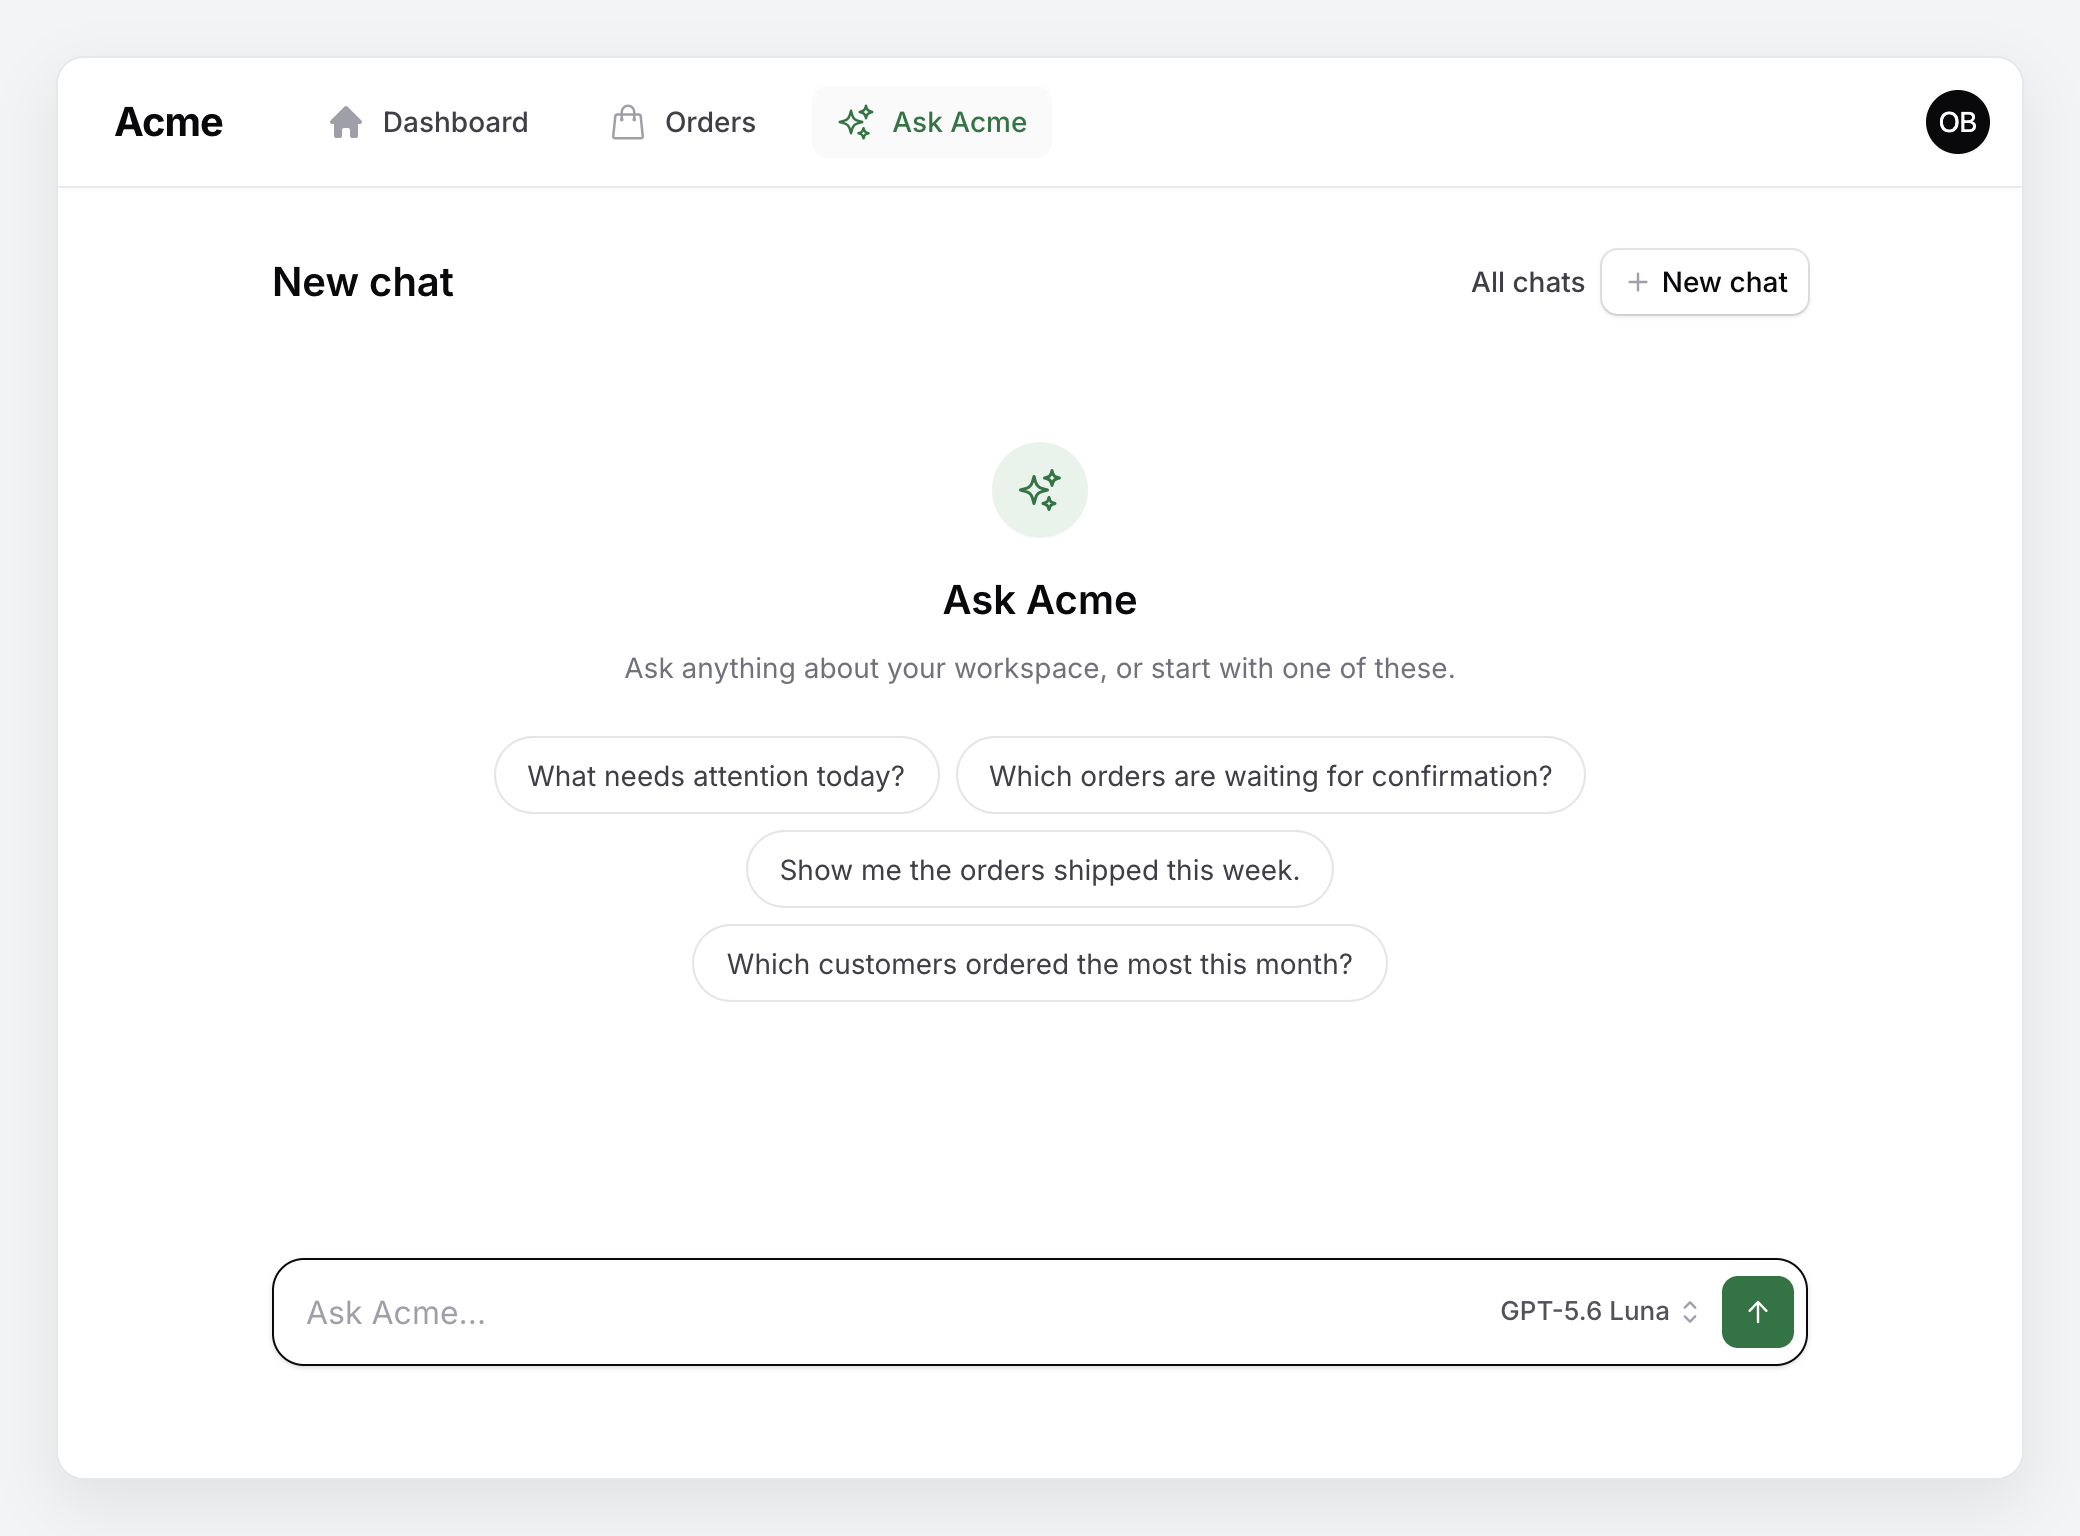
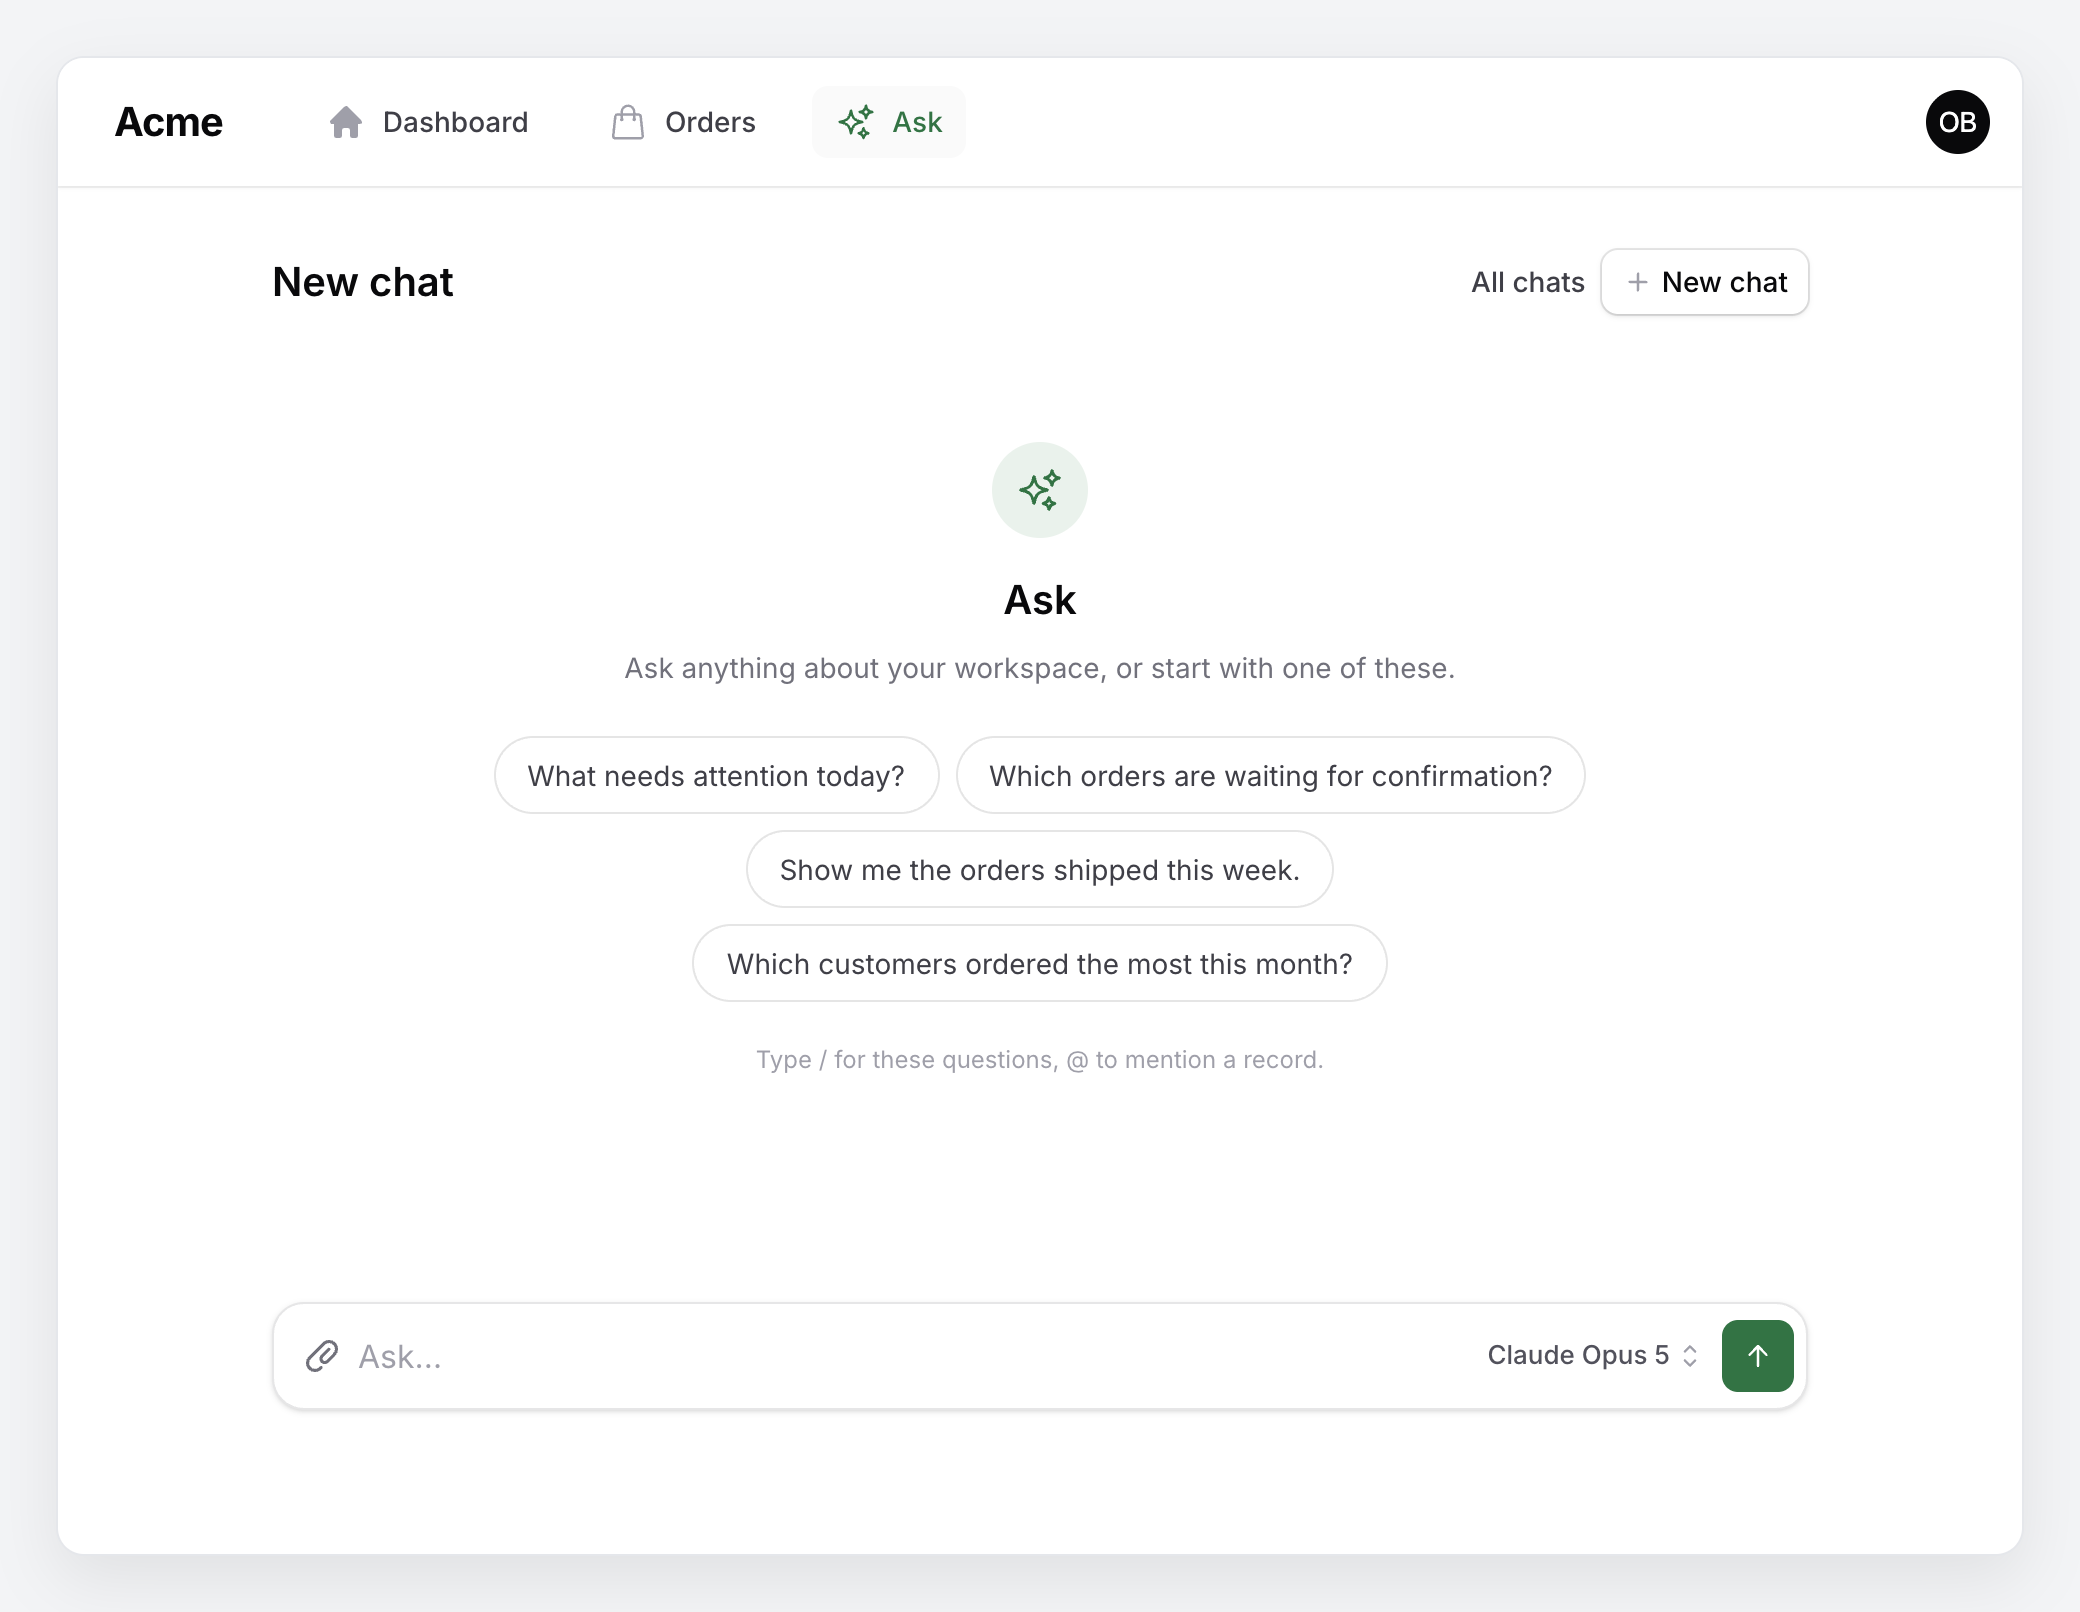
1.13.1: the full-table page titles itself without a resource, so Shield's permission labels no longer throw; every doc screenshot retaken from the rig in light mode

diff --git a/tests/Feature/TablesAndChartsTest.php b/tests/Feature/TablesAndChartsTest.php
@@ -201,6 +201,13 @@ it('shows the first rows of a long result with a link to the full table, where t
     get(ResourceTable::getUrl(['resource' => 'widgets']))->assertForbidden();
 });
 
+it('titles the full-table page without a resource, as Shield reads every page\'s title for its permissions', function () {
+    $page = app(ResourceTable::class);
+
+    expect($page->getTitle())->toBe('Table')
+        ->and($page->getBreadcrumbs())->toBe(['Table', 'Table']);
+});
+
 it('validates drawn charts and renders a chart from a stored tool result', function () {
     $user = $this->user();
     actingAs($user);

diff --git a/src/Filament/Pages/ResourceTable.php b/src/Filament/Pages/ResourceTable.php
@@ -81,8 +81,13 @@ class ResourceTable extends Page
         ] : [];
     }
 
+    /** A page that was never mounted (Shield reading every page's title for its permissions) has no resource. */
     protected function resourceLabel(): string
     {
+        if (! AgentResources::has($this->resource)) {
+            return __('Table');
+        }
+
         return Str::ucfirst((string) AgentResources::find($this->resource)::getPluralModelLabel());
     }
 

diff --git a/CHANGELOG.md b/CHANGELOG.md
@@ -2,6 +2,16 @@
 
 All notable changes to `packstub/filament-agents` are documented here.
 
+## 1.13.1 — 2026-10-01
+
+### Fixed
+
+- **Filament Shield no longer fails on the full-table page.** Shield reads the title of every page, unmounted, to label its permissions, and the new `ResourceTable` page looked up a resource it did not have yet, so `shield:generate` (and a seeder that syncs permissions) threw `Unknown table ""`. Without a resource the page is titled "Table".
+
+### Docs
+
+- Every screenshot retaken from the demo's rig in one setup, light mode forced: the compact table, the linked page context and the primary Ask button now sit beside the chart, approval, new-chat, token and limits shots.
+
 ## 1.13.0 — 2026-10-01
 
 The chat gets its polish and its guard rails: a compact table in every answer with the full table one click away, a Retry under every unanswered question, the record a chat is about kept and linked, the Ask button in the panel's colour — and, from the engine's 1.6, a prompt guard, redaction, a classification of every chat on the Chats page, web search with its sources under the answer and a knowledge base, each a switch on `AgentsPlugin`.
